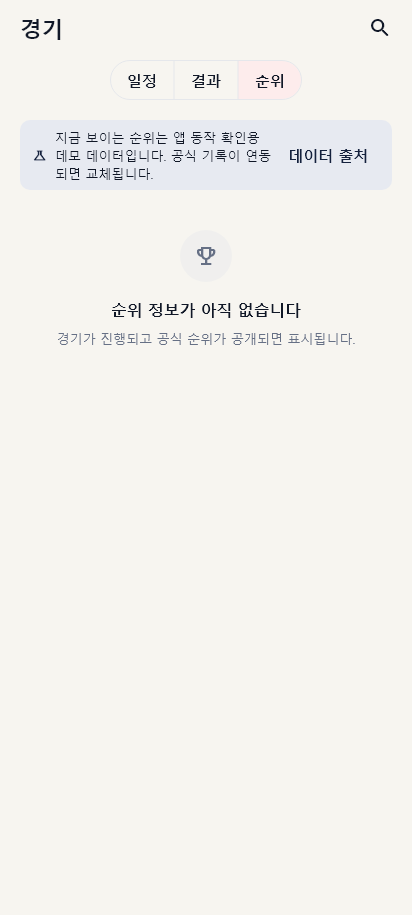
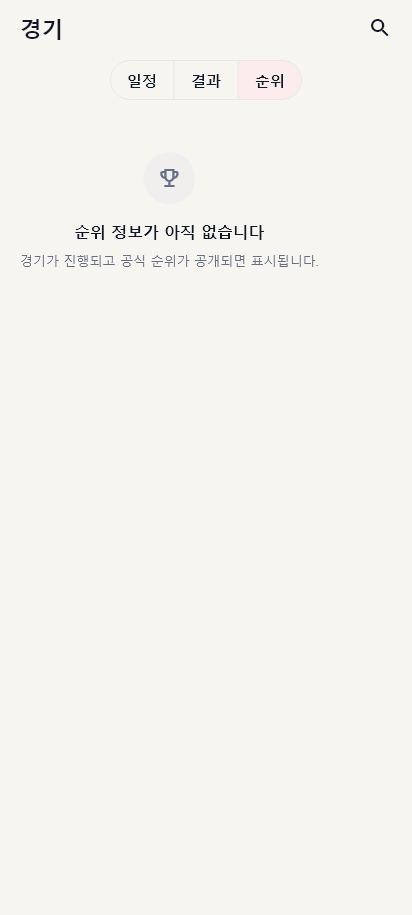
Stop the standings notice describing data that is not there
Built by Sonnet, reviewed by Opus. Both defects were found by reading the
regenerated screenshots as images rather than trusting that the tests passing
meant the screen was right.

With no standings at all, the demo notice still read "지금 보이는 순위는 앱 동작
확인용 데모 데이터입니다" above an empty state saying there were no standings.
Nobody was misled about real data, but an app whose whole claim is that it does
not say more than it knows should not assert that something absent is demo. The
notice and the nested 리그/개인 toggle are now both gated on a resolved season —
the same condition, since neither has anything to act on without one.

The 데이터 출처 button also landed mid-sentence: "공식 기록이 연동 [데이터 출처]
되면 교체됩니다." That was structural rather than a wrapping accident. An
`Expanded(Text)` beside a sibling button in one `Row` centres the button against
the row's full multi-line height, which drops it between the wrapped lines; no
padding would have fixed it. The button now sits on its own row beneath the
sentence.

Keeping the button rather than making the whole banner tappable: a banner-wide
tap hides the action from anyone scanning by eye, and this app treats a one-tap
path to provenance as necessary everywhere else it shows a source.

Verified at 1.0x and 2.0x by tests that navigate to 경기 → 순위 for real and
catch overflow through `FlutterError.onError`, the pattern the text-scale probe
already uses. Gate passes twelve steps in 54.2s; both goldens read as images and
[…]

diff --git a/lib/features/games/games_screen.dart b/lib/features/games/games_screen.dart
@@ -382,19 +382,23 @@ class _StandingsSection extends ConsumerWidget {
   @override
   Widget build(BuildContext context, WidgetRef ref) {
     final seasonAsync = ref.watch(standingsSeasonProvider);
+    // Loading and error both fall through as "nothing to show yet" here —
+    // `.value` is null in both those states, same as a resolved `null`.
+    final resolvedSeasonId = seasonAsync.value;
+    final hasStandings = resolvedSeasonId != null;
 
     return Column(
       children: <Widget>[
-        const _StandingsDemoNotice(),
-        seasonAsync.maybeWhen(
-          data: (seasonId) => seasonId == null
-              ? const SizedBox.shrink()
-              : _StandingsViewSegment(
-                  view: state.standingsView,
-                  onChanged: controller.setStandingsView,
-                ),
-          orElse: () => const SizedBox.shrink(),
-        ),
+        // Only shown once there is an actual season of standings to label —
+        // a sentence claiming "the numbers you see are demo" when there are
+        // no numbers on screen would say more than is true. The empty state
+        // below already says what is true ("순위 정보가 아직 없습니다").
+        if (hasStandings) const _StandingsDemoNotice(),
+        if (hasStandings)
+          _StandingsViewSegment(
+            view: state.standingsView,
+            onChanged: controller.setStandingsView,
+          ),
         Expanded(
           child: seasonAsync.when(
             loading: () => const Center(child: CircularProgressIndicator()),
@@ -492,10 +496,17 @@ class _LeagueStandingsView extends ConsumerWidget {
   }
 }
 
-/// Same shape as `_LandedNotice` below — a quiet inline banner with a way to
-/// act on what it says. All domestic standings are demo data today, and the
-/// 경기 tab is where that fact is easiest to miss, since the badges on the
-/// table and cards below sit past a scroll.
+/// Same container shape as `_LandedNotice` below — a quiet inline banner —
+/// but the action sits on its own line under the sentence rather than beside
+/// it. `_LandedNotice`'s text is short enough to share a line with its button
+/// at every scale; this sentence is not, and an inline action wedged into
+/// wrapped text lands in a different, sometimes mid-clause, spot at every
+/// width and text scale (this app allows up to 2.0x). Putting the button
+/// below removes that failure mode entirely rather than tuning around it.
+///
+/// All domestic standings are demo data today, and the 경기 tab is where
+/// that fact is easiest to miss, since the badges on the table and cards
+/// below sit past a scroll.
 class _StandingsDemoNotice extends StatelessWidget {
   const _StandingsDemoNotice();
 
@@ -512,26 +523,39 @@ class _StandingsDemoNotice extends StatelessWidget {
       ),
       padding: const EdgeInsets.symmetric(
         horizontal: WbSpace.md,
-        vertical: WbSpace.sm,
+        vertical: WbSpace.xs,
       ),
       decoration: BoxDecoration(
         color: c.brandSoft,
         borderRadius: WbRadius.chipAll,
       ),
-      child: Row(
+      child: Column(
+        crossAxisAlignment: CrossAxisAlignment.start,
+        mainAxisSize: MainAxisSize.min,
         children: <Widget>[
-          Icon(Icons.science_outlined, size: 15, color: c.brand),
-          const SizedBox(width: WbSpace.sm),
-          Expanded(
-            child: Text(
-              '지금 보이는 순위는 앱 동작 확인용 데모 데이터입니다. '
-              '공식 기록이 연동되면 교체됩니다.',
-              style: WbType.caption.copyWith(color: c.ink),
-            ),
+          Row(
+            crossAxisAlignment: CrossAxisAlignment.start,
+            children: <Widget>[
+              Padding(
+                padding: const EdgeInsets.only(top: 2),
+                child: Icon(Icons.science_outlined, size: 15, color: c.brand),
+              ),
+              const SizedBox(width: WbSpace.sm),
+              Expanded(
+                child: Text(
+                  '지금 보이는 순위는 앱 동작 확인용 데모 데이터입니다. '
+                  '공식 기록이 연동되면 교체됩니다.',
+                  style: WbType.caption.copyWith(color: c.ink),
+                ),
+              ),
+            ],
           ),
-          TextButton(
-            onPressed: () => context.push(WbRoutes.dataSources),
-            child: const Text('데이터 출처'),
+          Align(
+            alignment: Alignment.centerRight,
+            child: TextButton(
+              onPressed: () => context.push(WbRoutes.dataSources),
+              child: const Text('데이터 출처'),
+            ),
           ),
         ],
       ),

diff --git a/test/widget/games_standings_test.dart b/test/widget/games_standings_test.dart
@@ -21,6 +21,7 @@ void main() {
     WidgetTester tester, {
     required AudiencePreference audience,
     bool seedAssets = true,
+    double textScale = 1.0,
   }) async {
     final app = await buildTestApp(audience: audience, seedAssets: seedAssets);
     addTearDown(app.dispose);
@@ -40,8 +41,14 @@ void main() {
               GlobalWidgetsLocalizations.delegate,
               GlobalCupertinoLocalizations.delegate,
             ],
-            builder: (context, widget) => WbDensityHost(
-              child: WbFreshnessHost(child: widget ?? const SizedBox.shrink()),
+            builder: (context, widget) => MediaQuery(
+              data: MediaQuery.of(context)
+                  .copyWith(textScaler: TextScaler.linear(textScale)),
+              child: WbDensityHost(
+                child: WbFreshnessHost(
+                  child: widget ?? const SizedBox.shrink(),
+                ),
+              ),
             ),
           ),
         ),
@@ -212,7 +219,50 @@ void main() {
       await tester.tap(find.text('순위'));
       await settle(tester);
       expect(find.text('순위 정보가 아직 없습니다'), findsOneWidget);
+
+      // The demo notice describes numbers on screen. With none shown, the
+      // notice would be asserting something about data that does not exist
+      // — so it must not appear here, unlike the seeded case above.
+      expect(find.textContaining('앱 동작 확인용 데모 데이터'), findsNothing);
+      expect(find.text('데이터 출처'), findsNothing);
+      // The nested toggle has nothing to switch between either.
+      expect(find.text('리그 순위'), findsNothing);
+      expect(find.text('개인 순위'), findsNothing);
     });
+
+    for (final scale in <double>[1.0, 2.0]) {
+      testWidgets('데모 안내 문구는 글자 배율 ${scale}x에서도 넘치지 않는다', (tester) async {
+        final seen = <String>[];
+        final previous = FlutterError.onError;
+        FlutterError.onError = (details) {
+          final text = details.exception.toString();
+          if (text.contains('overflowed')) {
+            seen.add(text);
+          } else {
+            previous?.call(details);
+          }
+        };
+        addTearDown(() => FlutterError.onError = previous);
+
+        await pumpApp(tester, audience: noTeamFollowed, textScale: scale);
+        await tester.tap(find.text('경기'));
+        await settle(tester);
+        await tester.tap(find.text('순위'));
+        await settle(tester);
+        tester.takeException();
+
+        expect(
+          seen,
+          isEmpty,
+          reason: '데모 안내 배너가 ${scale}x에서 넘칩니다: ${seen.join(" || ")}',
+        );
+        // The button is on its own line below the sentence (see
+        // `_StandingsDemoNotice`), so it always reads as a whole label —
+        // never a fragment wedged where a line happened to wrap.
+        expect(find.text('데이터 출처'), findsOneWidget);
+        expect(find.textContaining('앱 동작 확인용 데모 데이터'), findsOneWidget);
+      });
+    }
 
     testWidgets('?section=standings 딥링크는 탭 전환 없이 순위를 바로 연다', (tester) async {
       final app = await pumpApp(tester, audience: noTeamFollowed);

diff --git a/lib/core/design_system/components/game_widgets.dart b/lib/core/design_system/components/game_widgets.dart
@@ -109,20 +109,35 @@ class WbHeroGameCard extends StatelessWidget {
     super.key,
     required this.card,
     required this.now,
-    required this.onTap,
+    this.onTap,
     this.weatherRisk,
     this.onToggleFollow,
     this.isFavoriteDriven = false,
+    this.onTeamTap,
   });
 
   final GameCard card;
   final DateTime now;
-  final VoidCallback onTap;
+
+  /// What the *rest* of the card does when tapped. Null where there is
+  /// nothing left to go to — the game detail screen is the one place this
+  /// card appears without a "go to the game" destination, because it is
+  /// already that destination.
+  final VoidCallback? onTap;
   final WeatherRisk? weatherRisk;
   final VoidCallback? onToggleFollow;
 
   /// True when this fixture leads because the user follows one of the clubs.
   final bool isFavoriteDriven;
+
+  /// Called with a team id when that team's block is tapped.
+  ///
+  /// Null (the default) leaves both team blocks passive labels, which is
+  /// what the home screen and 마이야구 hero cards need: their whole card is
+  /// already one target to the game, and a second, nested target inside it
+  /// would fight that promise. Only the game detail screen — where the two
+  /// clubs are the subject, not part of a fixture row — sets this.
+  final ValueChanged<String>? onTeamTap;
 
   @override
   Widget build(BuildContext context) {
@@ -130,10 +145,20 @@ class WbHeroGameCard extends StatelessWidget {
     final game = card.game;
     final hasScore = game.hasScore && game.status.hasResult;
 
+    // WbCard's `semanticLabel` collapses the whole subtree into one spoken
+    // sentence (it wraps descendants in `ExcludeSemantics` so a screen reader
+    // does not also read every internal Text separately). That is right for
+    // the home/마이야구 cards, which have exactly one target. Once the team
+    // blocks below become their own targets they need their own reachable
+    // semantics, which that collapse would swallow — so this variant skips
+    // it and lets each piece (including the two team buttons) announce
+    // itself individually instead.
+    final hasTeamTap = onTeamTap != null;
+
     return WbCard(
       emphasized: true,
       onTap: onTap,
-      semanticLabel: _semanticLabel(),
+      semanticLabel: hasTeamTap ? null : _semanticLabel(),
       padding: const EdgeInsets.fromLTRB(
         WbSpace.lg,
         WbSpace.lg,
